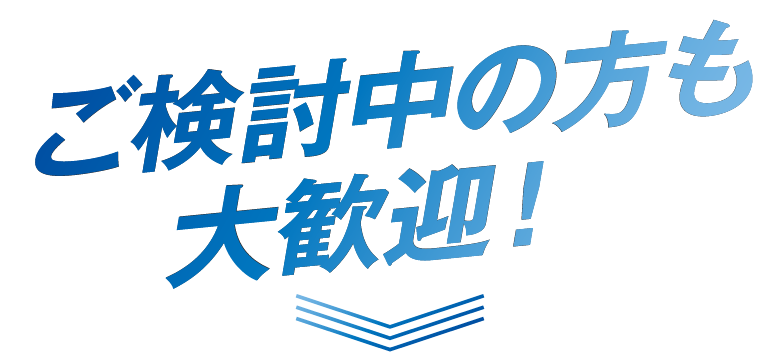
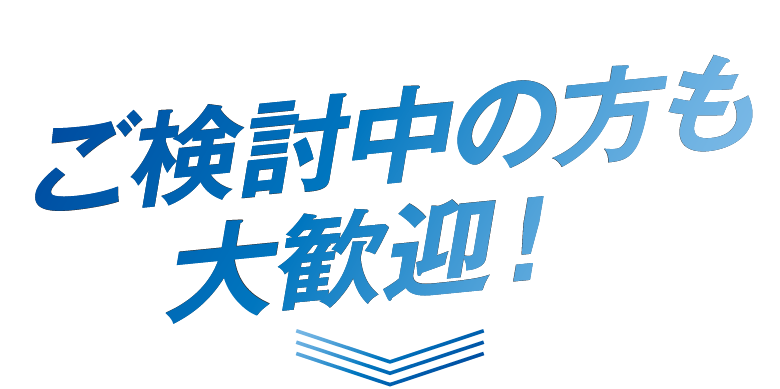
Add files via upload

Changed region(s): [[0.0308, 0.0621, 0.9846, 0.839], [0.3692, 0.839, 0.6462, 0.9944]]

diff --git a/css/style.css b/css/style.css
@@ -162,7 +162,7 @@ a { color: inherit; text-decoration: none; }
   margin-bottom: 16px;
 }
 .event__name {
-  font-size: clamp(20px, 7vw, 26px);
+  font-size: clamp(24px, 8.2vw, 31px);
   font-weight: 900;
   color: var(--c-blue-dk);
   line-height: 1.3;
